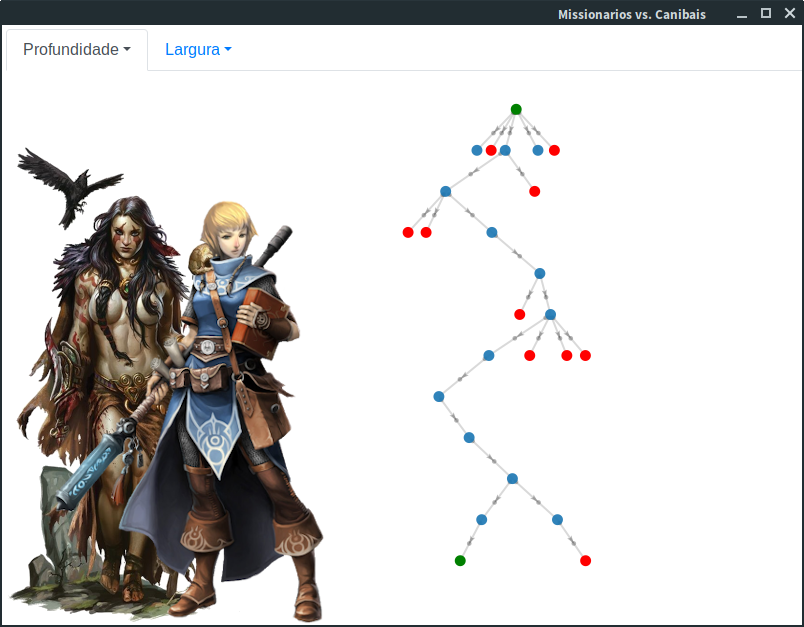
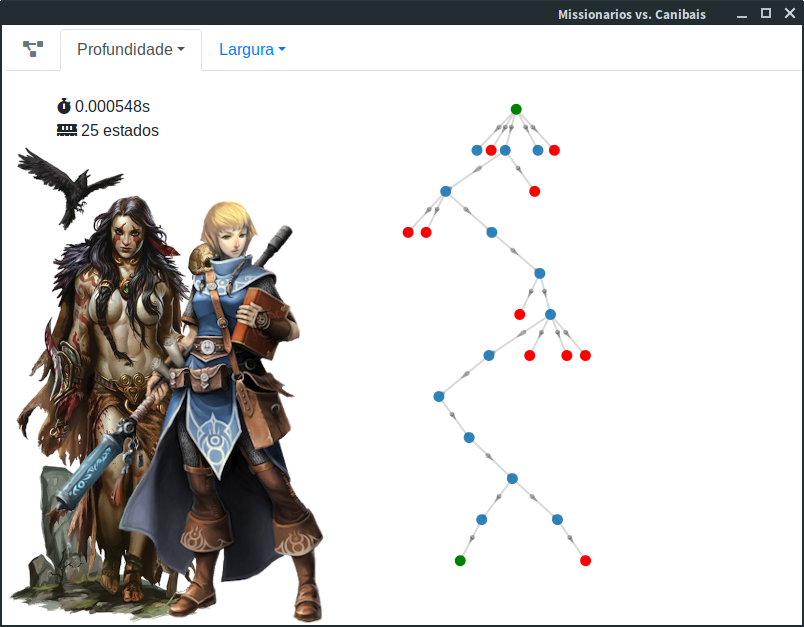
updt captura

diff --git a/resources/graphs/largura.js b/resources/graphs/largura.js
@@ -56,4 +56,4 @@ const gData = {
 
 $('span.memoria').text('25');
 
-$('span.tempo').text('0.000635s');
+$('span.tempo').text('0.000625s');

diff --git a/resources/graphs/profund.js b/resources/graphs/profund.js
@@ -56,4 +56,4 @@ const gData = {
 
 $('span.memoria').text('25');
 
-$('span.tempo').text('0.000567s');
+$('span.tempo').text('0.000548s');
